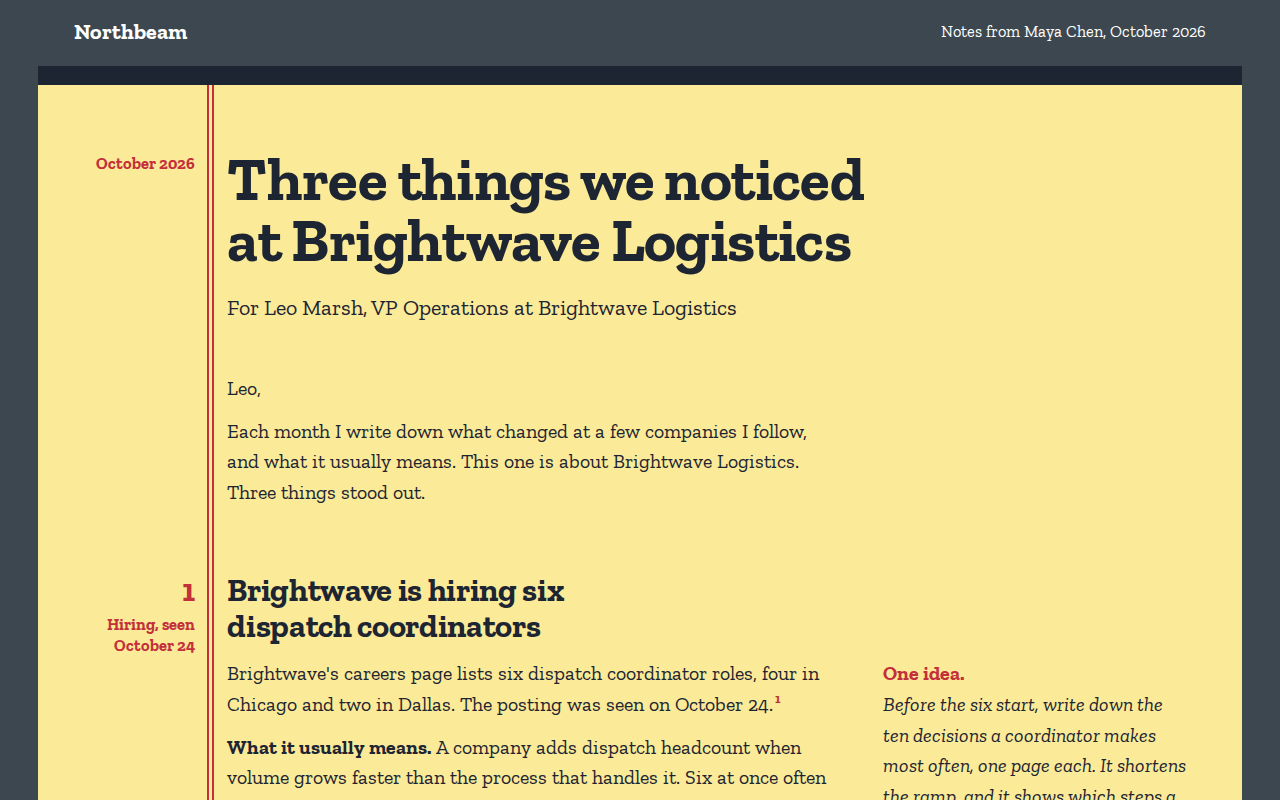
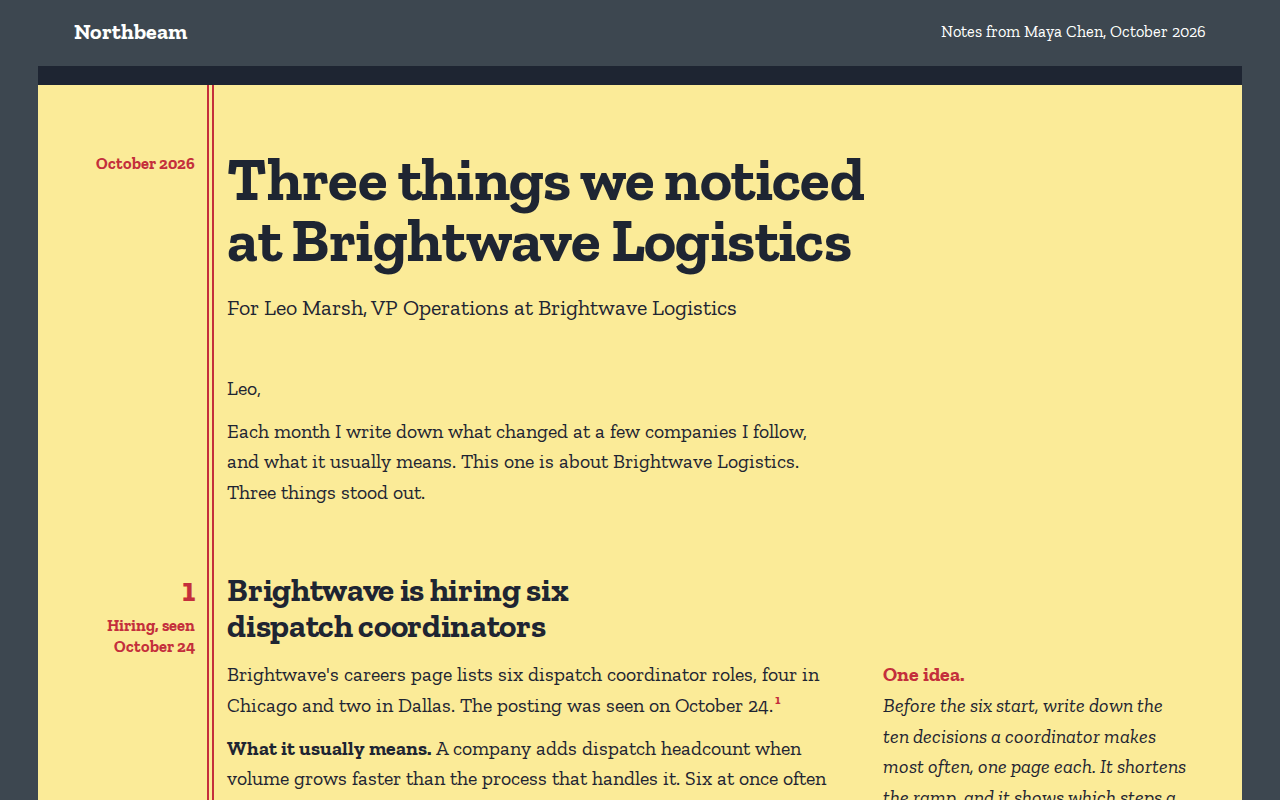
Library redesign: signal-note, brand fields pick text by luminance, phone headings fit

Changed region(s): [[0.1875, 0.7188, 0.6562, 1.0], [0.6875, 0.8438, 0.9375, 1.0], [0.0938, 0.7812, 0.1562, 0.8125]]

diff --git a/starters/signal-note/preview/brightwave.html b/starters/signal-note/preview/brightwave.html
@@ -23,7 +23,7 @@
   --gap:clamp(1rem,2.5vw,2.25rem);
   --small:clamp(.9375rem,.9rem + .15vw,1.0625rem);
   --lead:clamp(1.125rem,1rem + .5vw,1.375rem);
-  --h2:clamp(1.375rem,1rem + 1.3vw,2.25rem);
+  --h2:clamp(1.25rem,.95rem + 1.4vw,2.25rem);
 }
 *{box-sizing:border-box}
 html{-webkit-text-size-adjust:100%}
@@ -33,7 +33,7 @@ p{margin:0;text-wrap:pretty}
 a{color:inherit;text-decoration-thickness:.07em;text-underline-offset:.18em}
 a:focus-visible{outline:3px solid currentColor;outline-offset:3px}
 /* the desk, and any field of a brand colour, picks black or white text from its own colour */
-.on{--f:var(--desk);background:var(--f);color:#fff;color:rgb(from var(--f) clamp(0,(125 - (r * .299 + g * .587 + b * .114)) * 999,255) clamp(0,(125 - (r * .299 + g * .587 + b * .114)) * 999,255) clamp(0,(125 - (r * .299 + g * .587 + b * .114)) * 999,255))}
+.on{--f:var(--desk);background:var(--f);color:#fff;color:rgb(from var(--f) clamp(0,(12800 - (r * r * .2126 + g * g * .7152 + b * b * .0722)) * 999,255) clamp(0,(12800 - (r * r * .2126 + g * g * .7152 + b * b * .0722)) * 999,255) clamp(0,(12800 - (r * r * .2126 + g * g * .7152 + b * b * .0722)) * 999,255))}
 body.on{min-height:100svh}
 
 .mast{display:flex;align-items:center;justify-content:space-between;gap:1rem;max-width:76rem;margin:0 auto;padding:1.1rem calc(var(--m) + .25rem) 1.25rem;font-size:var(--small)}
@@ -77,7 +77,7 @@ sup{font-size:.68em;line-height:0;color:var(--red);font-weight:700;margin-left:.
 .cta{margin-top:clamp(2.5rem,5vw,3.5rem)}
 .cta .tx{max-width:38rem;display:grid;gap:1rem;justify-items:start}
 .cta .alt{color:var(--mute)}
-.cta .ken-cta{display:inline-flex!important;align-items:center;min-height:50px;background:var(--p)!important;color:#fff!important;color:rgb(from var(--p) clamp(0,(125 - (r * .299 + g * .587 + b * .114)) * 999,255) clamp(0,(125 - (r * .299 + g * .587 + b * .114)) * 999,255) clamp(0,(125 - (r * .299 + g * .587 + b * .114)) * 999,255))!important;font:700 var(--small)/1.1 var(--fb)!important;padding:.85rem 1.4rem!important;border-radius:3px!important;text-decoration:none}
+.cta .ken-cta{display:inline-flex!important;align-items:center;min-height:50px;background:var(--p)!important;color:#fff!important;color:rgb(from var(--p) clamp(0,(12800 - (r * r * .2126 + g * g * .7152 + b * b * .0722)) * 999,255) clamp(0,(12800 - (r * r * .2126 + g * g * .7152 + b * b * .0722)) * 999,255) clamp(0,(12800 - (r * r * .2126 + g * g * .7152 + b * b * .0722)) * 999,255))!important;font:700 var(--small)/1.1 var(--fb)!important;padding:.85rem 1.4rem!important;border-radius:3px!important;text-decoration:none}
 .cta .ken-cta:focus-visible{outline:3px solid var(--ink);outline-offset:3px}
 
 /* sources sit on the desk under the pad */
@@ -100,7 +100,7 @@ sup{font-size:.68em;line-height:0;color:var(--red);font-weight:700;margin-left:.
   .head>.mg{display:block;grid-column:2;grid-row:2;text-align:left;padding-top:.5rem}
   .sig .mg{display:contents}
   .sig .num{grid-column:1;grid-row:1/4;text-align:right}
-  .sig h2{grid-row:1}
+  .sig h2{grid-row:1;max-width:none}
   .sig .meta{grid-column:2;grid-row:2;margin-top:.5rem;text-align:left}
   .sig .body{grid-row:3}
   .issue .when{display:block}

diff --git a/starters/signal-note/preview/copperline.html b/starters/signal-note/preview/copperline.html
@@ -24,7 +24,7 @@
   --gap:clamp(1rem,2.5vw,2.25rem);
   --small:clamp(.9375rem,.9rem + .15vw,1.0625rem);
   --lead:clamp(1.125rem,1rem + .5vw,1.375rem);
-  --h2:clamp(1.375rem,1rem + 1.3vw,2.25rem);
+  --h2:clamp(1.25rem,.95rem + 1.4vw,2.25rem);
 }
 *{box-sizing:border-box}
 html{-webkit-text-size-adjust:100%}
@@ -34,7 +34,7 @@ p{margin:0;text-wrap:pretty}
 a{color:inherit;text-decoration-thickness:.07em;text-underline-offset:.18em}
 a:focus-visible{outline:3px solid currentColor;outline-offset:3px}
 /* the desk, and any field of a brand colour, picks black or white text from its own colour */
-.on{--f:var(--desk);background:var(--f);color:#fff;color:rgb(from var(--f) clamp(0,(125 - (r * .299 + g * .587 + b * .114)) * 999,255) clamp(0,(125 - (r * .299 + g * .587 + b * .114)) * 999,255) clamp(0,(125 - (r * .299 + g * .587 + b * .114)) * 999,255))}
+.on{--f:var(--desk);background:var(--f);color:#fff;color:rgb(from var(--f) clamp(0,(12800 - (r * r * .2126 + g * g * .7152 + b * b * .0722)) * 999,255) clamp(0,(12800 - (r * r * .2126 + g * g * .7152 + b * b * .0722)) * 999,255) clamp(0,(12800 - (r * r * .2126 + g * g * .7152 + b * b * .0722)) * 999,255))}
 body.on{min-height:100svh}
 
 .mast{display:flex;align-items:center;justify-content:space-between;gap:1rem;max-width:76rem;margin:0 auto;padding:1.1rem calc(var(--m) + .25rem) 1.25rem;font-size:var(--small)}
@@ -78,7 +78,7 @@ sup{font-size:.68em;line-height:0;color:var(--red);font-weight:700;margin-left:.
 .cta{margin-top:clamp(2.5rem,5vw,3.5rem)}
 .cta .tx{max-width:38rem;display:grid;gap:1rem;justify-items:start}
 .cta .alt{color:var(--mute)}
-.cta .ken-cta{display:inline-flex!important;align-items:center;min-height:50px;background:var(--p)!important;color:#fff!important;color:rgb(from var(--p) clamp(0,(125 - (r * .299 + g * .587 + b * .114)) * 999,255) clamp(0,(125 - (r * .299 + g * .587 + b * .114)) * 999,255) clamp(0,(125 - (r * .299 + g * .587 + b * .114)) * 999,255))!important;font:700 var(--small)/1.1 var(--fb)!important;padding:.85rem 1.4rem!important;border-radius:3px!important;text-decoration:none}
+.cta .ken-cta{display:inline-flex!important;align-items:center;min-height:50px;background:var(--p)!important;color:#fff!important;color:rgb(from var(--p) clamp(0,(12800 - (r * r * .2126 + g * g * .7152 + b * b * .0722)) * 999,255) clamp(0,(12800 - (r * r * .2126 + g * g * .7152 + b * b * .0722)) * 999,255) clamp(0,(12800 - (r * r * .2126 + g * g * .7152 + b * b * .0722)) * 999,255))!important;font:700 var(--small)/1.1 var(--fb)!important;padding:.85rem 1.4rem!important;border-radius:3px!important;text-decoration:none}
 .cta .ken-cta:focus-visible{outline:3px solid var(--ink);outline-offset:3px}
 
 /* sources sit on the desk under the pad */
@@ -101,7 +101,7 @@ sup{font-size:.68em;line-height:0;color:var(--red);font-weight:700;margin-left:.
   .head>.mg{display:block;grid-column:2;grid-row:2;text-align:left;padding-top:.5rem}
   .sig .mg{display:contents}
   .sig .num{grid-column:1;grid-row:1/4;text-align:right}
-  .sig h2{grid-row:1}
+  .sig h2{grid-row:1;max-width:none}
   .sig .meta{grid-column:2;grid-row:2;margin-top:.5rem;text-align:left}
   .sig .body{grid-row:3}
   .issue .when{display:block}

diff --git a/starters/signal-note/preview/marlowe-shared.html b/starters/signal-note/preview/marlowe-shared.html
@@ -24,7 +24,7 @@
   --gap:clamp(1rem,2.5vw,2.25rem);
   --small:clamp(.9375rem,.9rem + .15vw,1.0625rem);
   --lead:clamp(1.125rem,1rem + .5vw,1.375rem);
-  --h2:clamp(1.375rem,1rem + 1.3vw,2.25rem);
+  --h2:clamp(1.25rem,.95rem + 1.4vw,2.25rem);
 }
 *{box-sizing:border-box}
 html{-webkit-text-size-adjust:100%}
@@ -34,7 +34,7 @@ p{margin:0;text-wrap:pretty}
 a{color:inherit;text-decoration-thickness:.07em;text-underline-offset:.18em}
 a:focus-visible{outline:3px solid currentColor;outline-offset:3px}
 /* the desk, and any field of a brand colour, picks black or white text from its own colour */
-.on{--f:var(--desk);background:var(--f);color:#fff;color:rgb(from var(--f) clamp(0,(125 - (r * .299 + g * .587 + b * .114)) * 999,255) clamp(0,(125 - (r * .299 + g * .587 + b * .114)) * 999,255) clamp(0,(125 - (r * .299 + g * .587 + b * .114)) * 999,255))}
+.on{--f:var(--desk);background:var(--f);color:#fff;color:rgb(from var(--f) clamp(0,(12800 - (r * r * .2126 + g * g * .7152 + b * b * .0722)) * 999,255) clamp(0,(12800 - (r * r * .2126 + g * g * .7152 + b * b * .0722)) * 999,255) clamp(0,(12800 - (r * r * .2126 + g * g * .7152 + b * b * .0722)) * 999,255))}
 body.on{min-height:100svh}
 
 .mast{display:flex;align-items:center;justify-content:space-between;gap:1rem;max-width:76rem;margin:0 auto;padding:1.1rem calc(var(--m) + .25rem) 1.25rem;font-size:var(--small)}
@@ -78,7 +78,7 @@ sup{font-size:.68em;line-height:0;color:var(--red);font-weight:700;margin-left:.
 .cta{margin-top:clamp(2.5rem,5vw,3.5rem)}
 .cta .tx{max-width:38rem;display:grid;gap:1rem;justify-items:start}
 .cta .alt{color:var(--mute)}
-.cta .ken-cta{display:inline-flex!important;align-items:center;min-height:50px;background:var(--p)!important;color:#fff!important;color:rgb(from var(--p) clamp(0,(125 - (r * .299 + g * .587 + b * .114)) * 999,255) clamp(0,(125 - (r * .299 + g * .587 + b * .114)) * 999,255) clamp(0,(125 - (r * .299 + g * .587 + b * .114)) * 999,255))!important;font:700 var(--small)/1.1 var(--fb)!important;padding:.85rem 1.4rem!important;border-radius:3px!important;text-decoration:none}
+.cta .ken-cta{display:inline-flex!important;align-items:center;min-height:50px;background:var(--p)!important;color:#fff!important;color:rgb(from var(--p) clamp(0,(12800 - (r * r * .2126 + g * g * .7152 + b * b * .0722)) * 999,255) clamp(0,(12800 - (r * r * .2126 + g * g * .7152 + b * b * .0722)) * 999,255) clamp(0,(12800 - (r * r * .2126 + g * g * .7152 + b * b * .0722)) * 999,255))!important;font:700 var(--small)/1.1 var(--fb)!important;padding:.85rem 1.4rem!important;border-radius:3px!important;text-decoration:none}
 .cta .ken-cta:focus-visible{outline:3px solid var(--ink);outline-offset:3px}
 
 /* sources sit on the desk under the pad */
@@ -101,7 +101,7 @@ sup{font-size:.68em;line-height:0;color:var(--red);font-weight:700;margin-left:.
   .head>.mg{display:block;grid-column:2;grid-row:2;text-align:left;padding-top:.5rem}
   .sig .mg{display:contents}
   .sig .num{grid-column:1;grid-row:1/4;text-align:right}
-  .sig h2{grid-row:1}
+  .sig h2{grid-row:1;max-width:none}
   .sig .meta{grid-column:2;grid-row:2;margin-top:.5rem;text-align:left}
   .sig .body{grid-row:3}
   .issue .when{display:block}

diff --git a/starters/signal-note/preview/sunvale-research.html b/starters/signal-note/preview/sunvale-research.html
@@ -24,7 +24,7 @@
   --gap:clamp(1rem,2.5vw,2.25rem);
   --small:clamp(.9375rem,.9rem + .15vw,1.0625rem);
   --lead:clamp(1.125rem,1rem + .5vw,1.375rem);
-  --h2:clamp(1.375rem,1rem + 1.3vw,2.25rem);
+  --h2:clamp(1.25rem,.95rem + 1.4vw,2.25rem);
 }
 *{box-sizing:border-box}
 html{-webkit-text-size-adjust:100%}
@@ -34,7 +34,7 @@ p{margin:0;text-wrap:pretty}
 a{color:inherit;text-decoration-thickness:.07em;text-underline-offset:.18em}
 a:focus-visible{outline:3px solid currentColor;outline-offset:3px}
 /* the desk, and any field of a brand colour, picks black or white text from its own colour */
-.on{--f:var(--desk);background:var(--f);color:#fff;color:rgb(from var(--f) clamp(0,(125 - (r * .299 + g * .587 + b * .114)) * 999,255) clamp(0,(125 - (r * .299 + g * .587 + b * .114)) * 999,255) clamp(0,(125 - (r * .299 + g * .587 + b * .114)) * 999,255))}
+.on{--f:var(--desk);background:var(--f);color:#fff;color:rgb(from var(--f) clamp(0,(12800 - (r * r * .2126 + g * g * .7152 + b * b * .0722)) * 999,255) clamp(0,(12800 - (r * r * .2126 + g * g * .7152 + b * b * .0722)) * 999,255) clamp(0,(12800 - (r * r * .2126 + g * g * .7152 + b * b * .0722)) * 999,255))}
 body.on{min-height:100svh}
 
 .mast{display:flex;align-items:center;justify-content:space-between;gap:1rem;max-width:76rem;margin:0 auto;padding:1.1rem calc(var(--m) + .25rem) 1.25rem;font-size:var(--small)}
@@ -78,7 +78,7 @@ sup{font-size:.68em;line-height:0;color:var(--red);font-weight:700;margin-left:.
 .cta{margin-top:clamp(2.5rem,5vw,3.5rem)}
 .cta .tx{max-width:38rem;display:grid;gap:1rem;justify-items:start}
 .cta .alt{color:var(--mute)}
-.cta .ken-cta{display:inline-flex!important;align-items:center;min-height:50px;background:var(--p)!important;color:#fff!important;color:rgb(from var(--p) clamp(0,(125 - (r * .299 + g * .587 + b * .114)) * 999,255) clamp(0,(125 - (r * .299 + g * .587 + b * .114)) * 999,255) clamp(0,(125 - (r * .299 + g * .587 + b * .114)) * 999,255))!important;font:700 var(--small)/1.1 var(--fb)!important;padding:.85rem 1.4rem!important;border-radius:3px!important;text-decoration:none}
+.cta .ken-cta{display:inline-flex!important;align-items:center;min-height:50px;background:var(--p)!important;color:#fff!important;color:rgb(from var(--p) clamp(0,(12800 - (r * r * .2126 + g * g * .7152 + b * b * .0722)) * 999,255) clamp(0,(12800 - (r * r * .2126 + g * g * .7152 + b * b * .0722)) * 999,255) clamp(0,(12800 - (r * r * .2126 + g * g * .7152 + b * b * .0722)) * 999,255))!important;font:700 var(--small)/1.1 var(--fb)!important;padding:.85rem 1.4rem!important;border-radius:3px!important;text-decoration:none}
 .cta .ken-cta:focus-visible{outline:3px solid var(--ink);outline-offset:3px}
 
 /* sources sit on the desk under the pad */
@@ -101,7 +101,7 @@ sup{font-size:.68em;line-height:0;color:var(--red);font-weight:700;margin-left:.
   .head>.mg{display:block;grid-column:2;grid-row:2;text-align:left;padding-top:.5rem}
   .sig .mg{display:contents}
   .sig .num{grid-column:1;grid-row:1/4;text-align:right}
-  .sig h2{grid-row:1}
+  .sig h2{grid-row:1;max-width:none}
   .sig .meta{grid-column:2;grid-row:2;margin-top:.5rem;text-align:left}
   .sig .body{grid-row:3}
   .issue .when{display:block}
